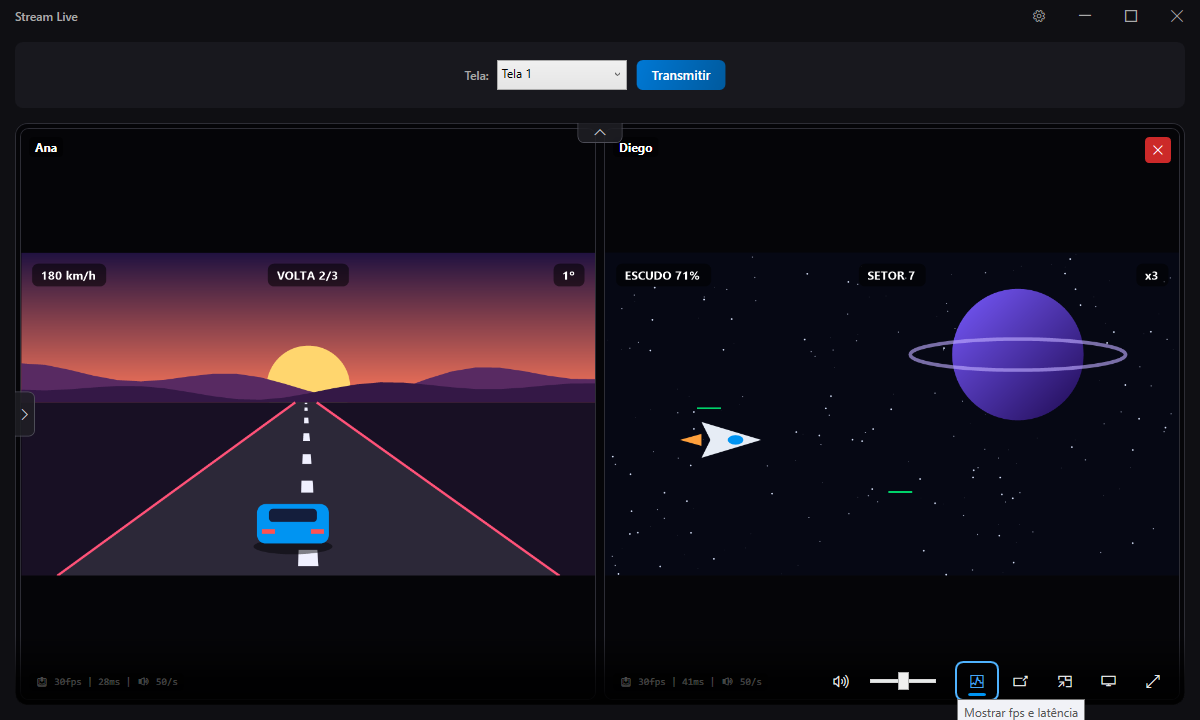
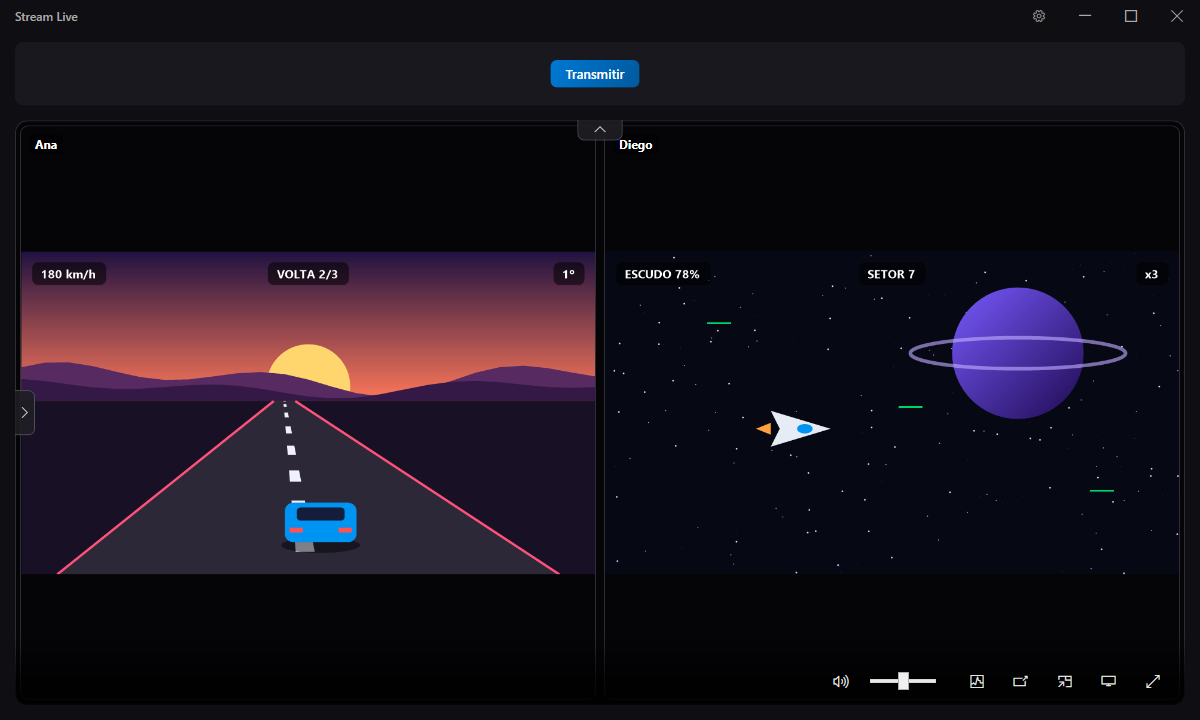
docs: regrava os prints e descreve o novo modal de transmitir
Claude-Session: https://claude.ai/code/session_012u5fdWtQwZ5dmXuYrenNtN

diff --git a/README.md b/README.md
@@ -35,12 +35,13 @@ O projeto nasceu da seguinte necessidade:
 *Um app instalável para hostear transmissões ou participar (Join) de lives com amigos via Radmin VPN.*
 
 * **Para quem transmite (Host):**
-  * Escolher qual monitor transmitir (suporte a múltiplas telas).
+  * Escolher a tela pela miniatura do que está nela, como no Discord, e trocar de tela sem
+    parar a live.
   * O áudio do Discord fica sempre fora da captura, para evitar retorno nas chamadas de voz.
     Com o Discord fechado, o áudio do sistema inteiro é transmitido normalmente.
   * Senha de sala opcional, pedida ao iniciar a transmissão.
-  * **Live privada:** marque quais amigos podem ver a transmissão. Para todos os outros você
-    aparece como offline, e nem a existência da live é anunciada — diferente da senha, que
+  * **Live privada:** marque quais amigos podem ver a transmissão; sem ninguém marcado, ela é
+    pública. Para todos os outros você aparece como offline, e nem a existência da live é anunciada — diferente da senha, que
     barra a entrada mas deixa todo mundo ver que você está transmitindo.
   * O Host não ouve a própria transmissão.
 * **Para quem assiste (Join):**
@@ -56,8 +57,8 @@ O projeto nasceu da seguinte necessidade:
 |---|---|
 | ![Lista de amigos com dois em live, um online e dois offline](docs/images/amigos.png) | ![Live da Ana aberta, com a barra de controles do player](docs/images/live.png) |
 | **Lista de amigos.** Verde: em live (clique para assistir). Amarelo: online sem transmitir. Cinza: offline. | **Uma live aberta.** A lista recolhe para o vídeo ocupar a janela; volume, estatísticas, PiP, teatro e tela cheia ficam na barra de baixo. |
-| ![Duas lives lado a lado em grade](docs/images/grade.png) | ![Diálogo de iniciar transmissão com senha e live privada](docs/images/iniciar-transmissao.png) |
-| **Várias lives em grade.** Cada uma com seu volume; um clique foca só nela sem desconectar as outras. | **Iniciar transmissão.** Senha opcional e live privada, escolhendo quais amigos podem ver. |
+| ![Duas lives lado a lado em grade](docs/images/grade.png) | ![Modal de transmitir com as miniaturas das duas telas, dois amigos marcados e a senha](docs/images/iniciar-transmissao.png) |
+| **Várias lives em grade.** Cada uma com seu volume; um clique foca só nela sem desconectar as outras. | **Transmitir.** Escolha a tela pela miniatura, marque quem pode ver (ninguém marcado = pública) e, se quiser, uma senha. |
 | ![Transmitindo ao vivo, em modo privado, com o preview da própria tela](docs/images/transmitindo.png) | |
 | **Transmitindo.** Selos de *ao vivo* e *privada*, quem está assistindo e o preview da sua transmissão. As lives abertas ficam mudas para o som delas não voltar pela captura. | |
 

diff --git a/CLAUDE.md b/CLAUDE.md
@@ -60,7 +60,8 @@ Radmin VPN. A mesma janela é host e viewer ao mesmo tempo.
 `StreamManager` (Core) é a peça central e serve os dois papéis — no host cria capturadores e
 encoder, no viewer só decodifica. `EnsureCapturers()` só roda no host; `_isHost` separa o resto.
 
-- **Host:** `MainWindow` → `HostBroadcast` (ciclo de vida da live, zero UI) → `StreamManager`
+- **Host:** `MainWindow` → `BroadcastDialog` (tela pela miniatura, quem pode ver, senha; o
+  mesmo modal só com as telas é o "Trocar tela") → `HostBroadcast` (ciclo de vida da live, zero UI) → `StreamManager`
   → `VideoCapturer`/`AudioCapturer`. O `SignalingServer` (Fleck, porta 8080) sobe **junto com o
   app**, não com a live: é ele que responde ao `STATUS_CHECK` dos amigos e faz você aparecer
   como online na lista deles.
@@ -96,7 +97,9 @@ Detalhes que quebram fácil:
   `::1`; sem normalizar, nada casa com a lista de amigos. `127.0.0.1` sempre passa.
 - O `OnOpen` tem **dois** portões independentes, decididos por `ShouldAcceptConnection` (lógica
   pura, testada): a lista de amigos e, durante uma **live privada**, a lista de convidados
-  daquela live (`SetLiveVisibility`, zerada pelo `AnnounceStop`). Recusar no `OnOpen` é o que
+  daquela live (`SetLiveVisibility`, zerada pelo `AnnounceStop`). Privada = lista de
+  convidados não vazia: `BroadcastSettings.PrivateLive` é derivado dela, e o `BroadcastDialog`
+  não tem caixa "Live privada" (ninguém marcado = pública; toda live começa sem ninguém). Recusar no `OnOpen` é o que
   esconde a live: o `FriendStatusService` do outro lado falha ao conectar e reporta *offline*,
   e a mesma recusa nega a entrada, sem precisar filtrar `RegisterViewer` nem o broadcast. A
   recusa por live privada **não** dispara `OnConnectionRejected`: o evento vira um aviso no
